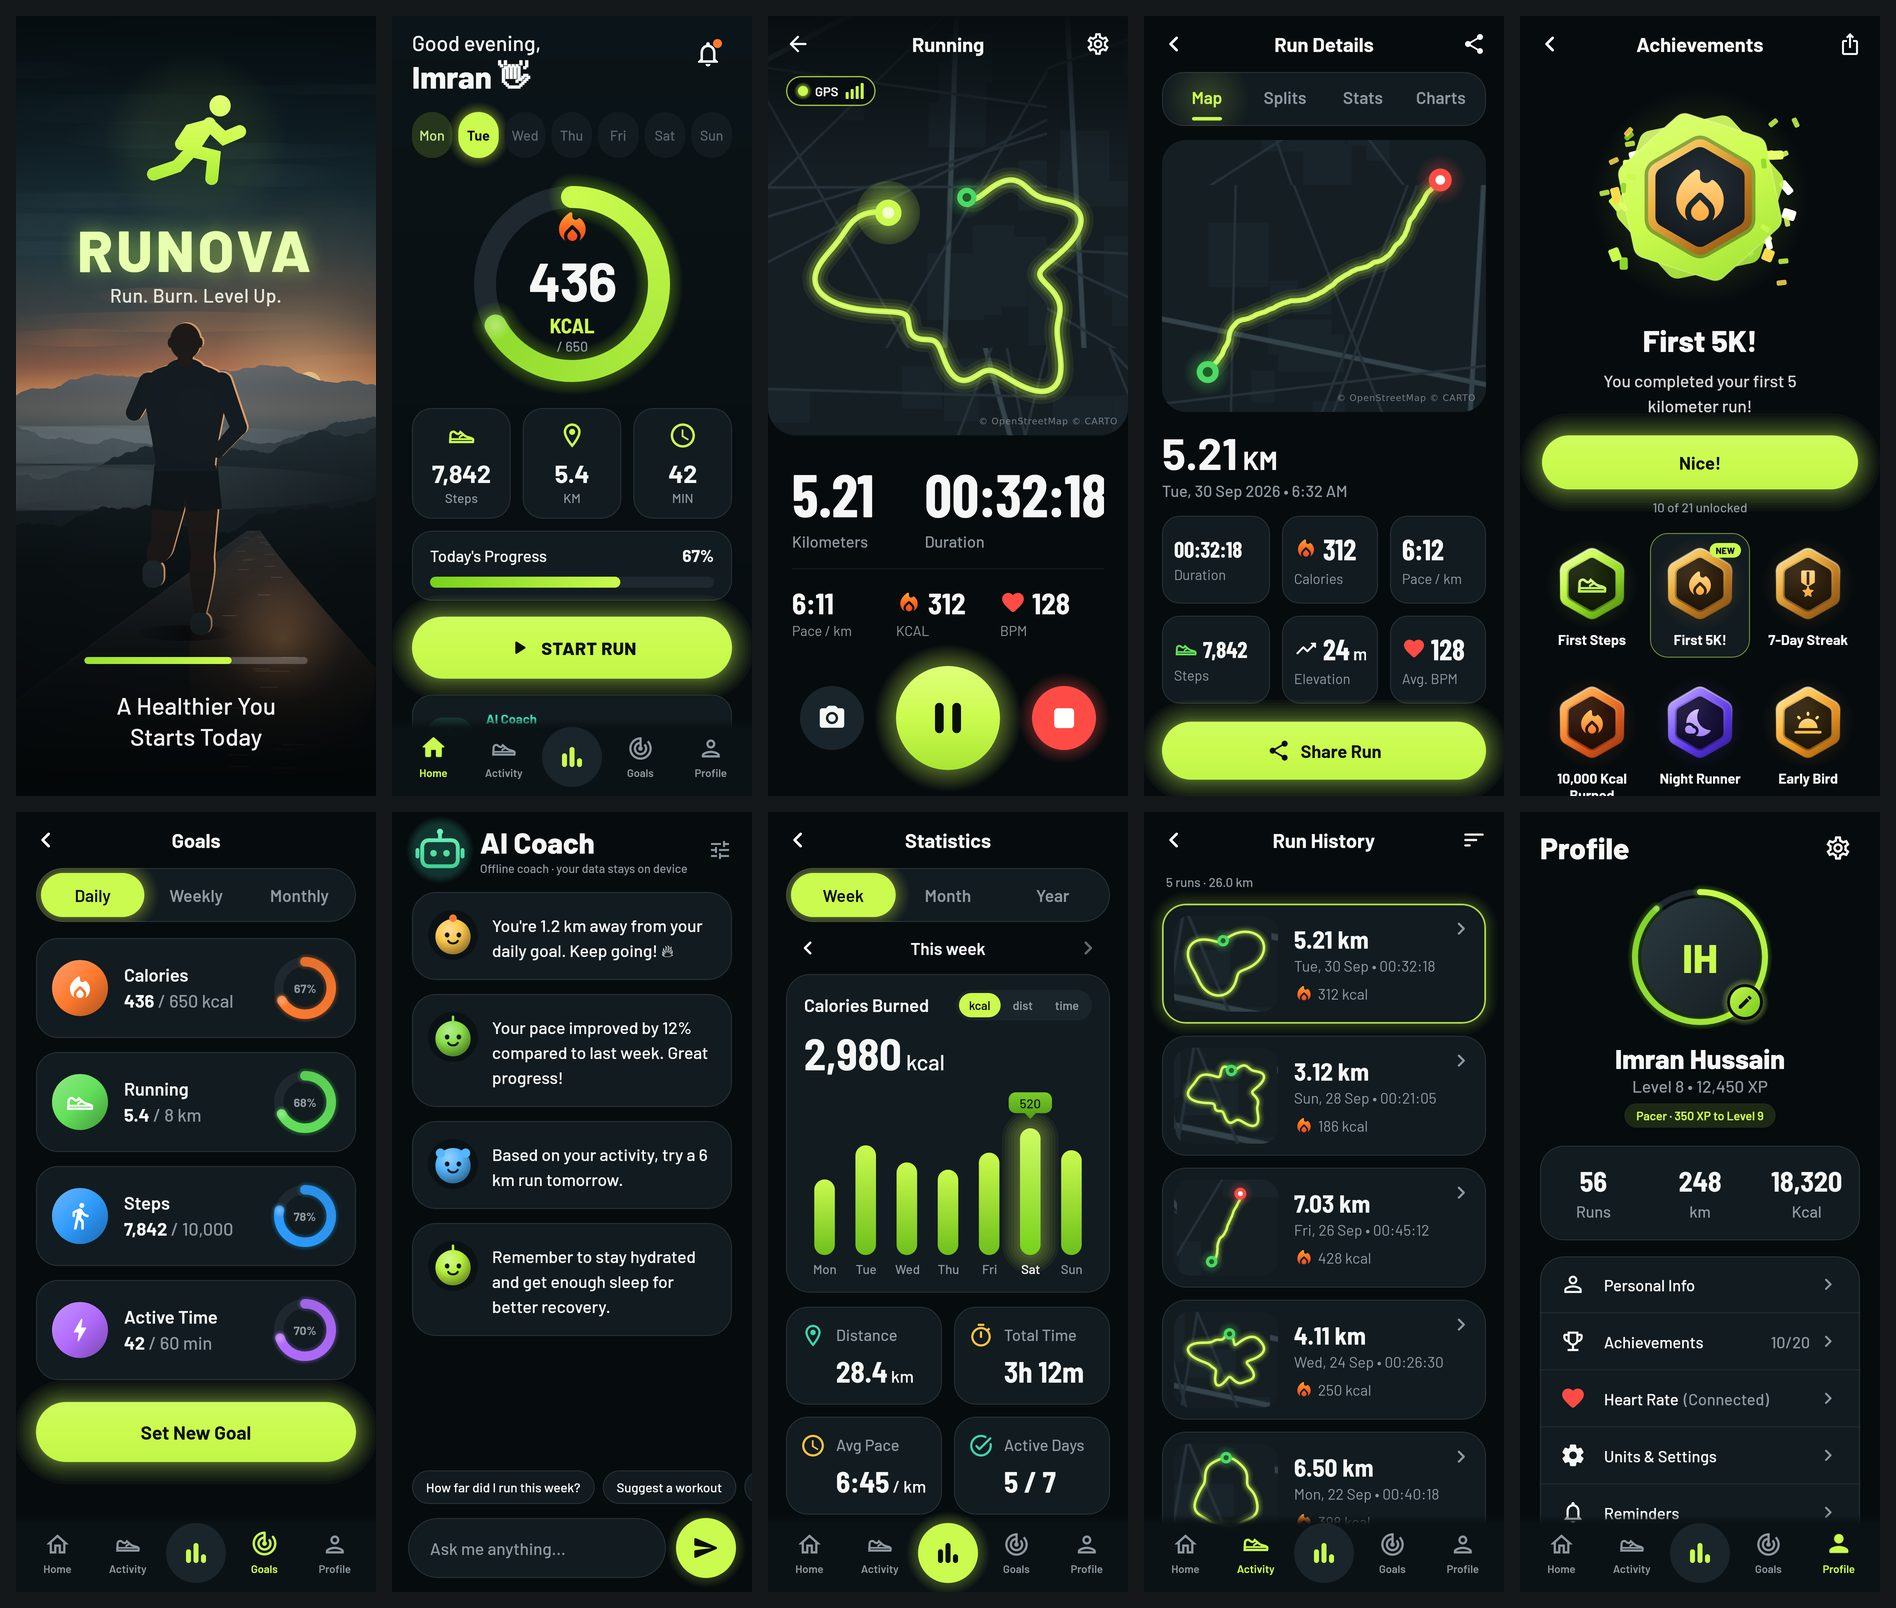
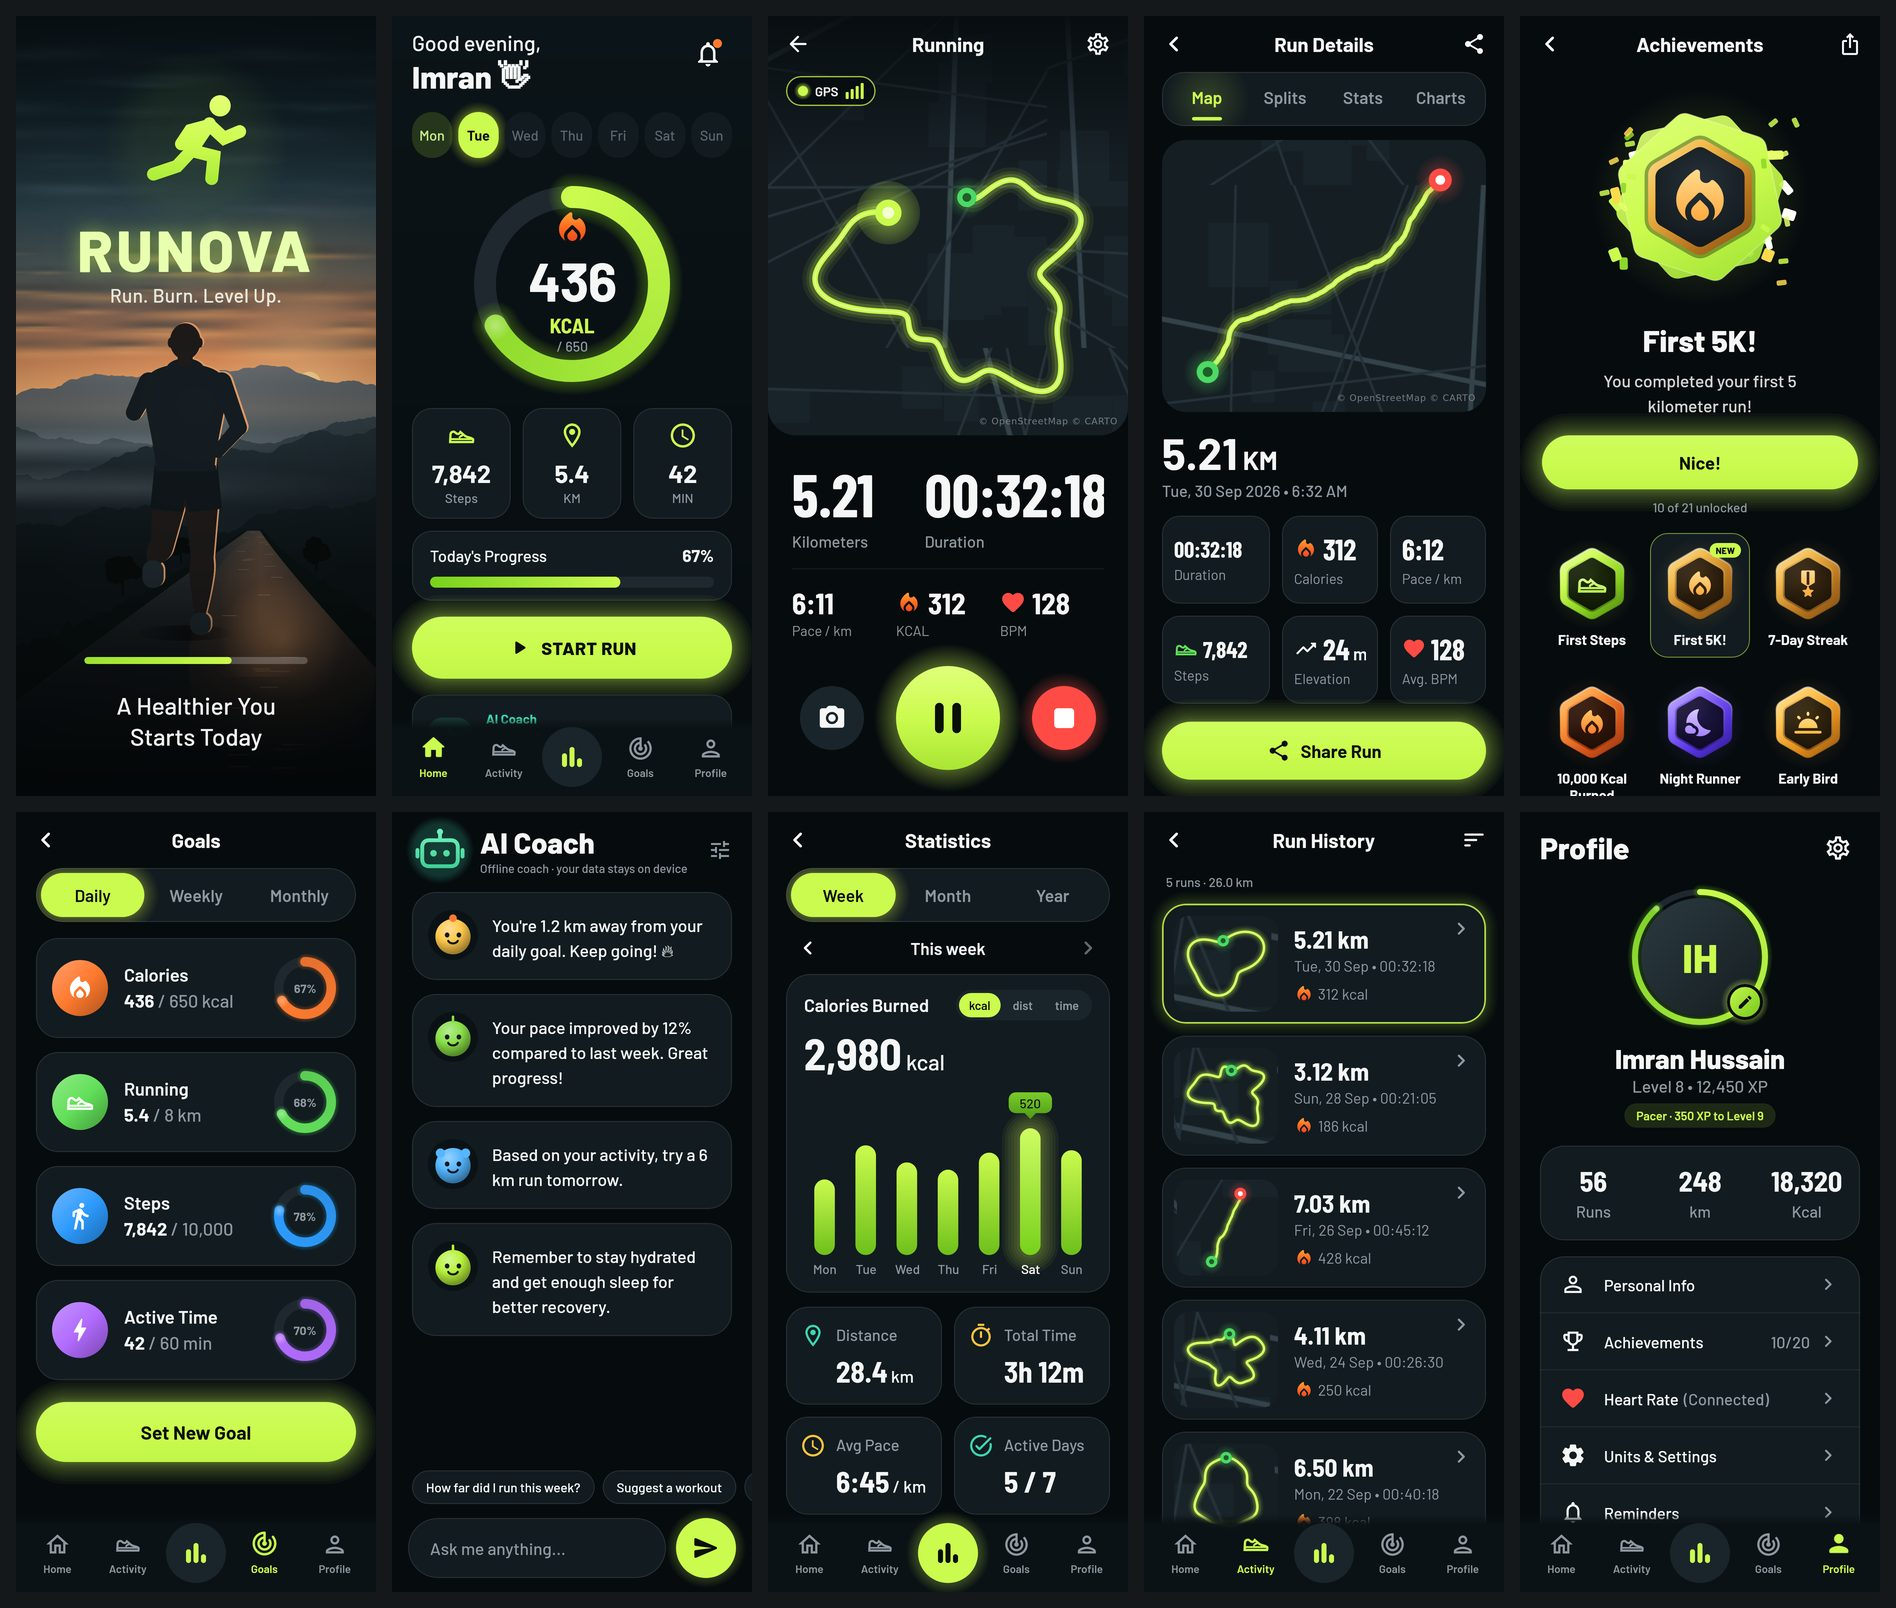
Richer splash backdrop: lit sunset clouds, roadside hedges and trees
Clouds and mist are drawn as soft elliptical fades instead of clipped
ovals, the sunset band is warmer, both road edges get continuous hedge
silhouettes with a few trees, and the wet road reflects the sun more
softly. Screenshots updated.

Claude-Session: https://claude.ai/code/session_01SDsdAkGGD293yjZT44gNBa

Changed region(s): [[0.0, 0.1555, 0.2178, 0.2488]]

diff --git a/runova/app/src/shared/kotlin/com/runova/app/ui/components/SplashScene.kt b/runova/app/src/shared/kotlin/com/runova/app/ui/components/SplashScene.kt
@@ -15,6 +15,7 @@ import androidx.compose.ui.graphics.StrokeJoin
 import androidx.compose.ui.graphics.drawscope.DrawScope
 import androidx.compose.ui.graphics.drawscope.Stroke
 import androidx.compose.ui.graphics.drawscope.clipPath
+import androidx.compose.ui.graphics.drawscope.withTransform
 import androidx.compose.ui.graphics.lerp
 import kotlin.math.PI
 import kotlin.math.abs
@@ -75,35 +76,44 @@ internal fun DrawScope.drawSplash(t: Float) {
     val h = size.height
     val horizon = h * 0.505f
 
-    // ---- sky
+    // ---- sky: slate-teal at the top, a wide peach-orange glow above the ridges
     drawRect(
         Brush.verticalGradient(
-            0.00f to Color(0xFF0E1F27),
-            0.16f to Color(0xFF173039),
-            0.30f to Color(0xFF28434C),
-            0.39f to Color(0xFF4A4F50),
-            0.45f to Color(0xFF9B6750),
-            0.485f to Color(0xFFE39A62),
-            0.505f to Color(0xFFF6B976),
+            0.00f to Color(0xFF12252E),
+            0.14f to Color(0xFF1C343E),
+            0.25f to Color(0xFF334C56),
+            0.33f to Color(0xFF55605F),
+            0.39f to Color(0xFF9A6F58),
+            0.44f to Color(0xFFD38B5B),
+            0.48f to Color(0xFFEFAA6C),
+            0.505f to Color(0xFFF7C27F),
             0.56f to Color(0xFF6E6560),
             1.00f to Color(0xFF0C1214),
             endY = h,
         ),
     )
-    // cloud banks
+    // cloud banks: soft cool streaks high up, dark clouds with glowing undersides near the sun
     val cloudRnd = Random(7)
-    repeat(14) { i ->
-        val cy = h * (0.05f + i * 0.03f + cloudRnd.nextFloat() * 0.02f)
-        val cx = w * (cloudRnd.nextFloat() * 1.2f - 0.1f) + sin(t * 0.05f + i) * w * 0.02f
-        val rw = w * (0.35f + cloudRnd.nextFloat() * 0.7f)
-        val rh = h * (0.012f + cloudRnd.nextFloat() * 0.03f)
-        val warm = i >= 10
-        val col = if (warm) Color(0xFFE3905C).copy(alpha = 0.20f) else Color(0xFF3E5761).copy(alpha = 0.18f + cloudRnd.nextFloat() * 0.14f)
-        drawOval(
-            Brush.radialGradient(listOf(col, Color.Transparent), center = Offset(cx, cy), radius = rw / 2),
-            topLeft = Offset(cx - rw / 2, cy - rh / 2),
-            size = Size(rw, rh),
-        )
+    repeat(7) { band ->
+        val cy = h * (0.05f + band * 0.034f)
+        val drift = sin(t * 0.05f + band) * w * 0.02f
+        repeat(6) {
+            val cx = w * (cloudRnd.nextFloat() * 1.3f - 0.15f) + drift
+            val rx = w * (0.12f + cloudRnd.nextFloat() * 0.22f)
+            softEllipse(Offset(cx, cy + (cloudRnd.nextFloat() - 0.5f) * h * 0.012f), rx, rx * (0.07f + cloudRnd.nextFloat() * 0.06f), Color(0xFF4F6A76), 0.16f + cloudRnd.nextFloat() * 0.12f)
+        }
+    }
+    repeat(6) { band ->
+        val cy = h * (0.30f + band * 0.024f)
+        val drift = sin(t * 0.04f + band * 2) * w * 0.015f
+        val glow = 0.22f + 0.30f * (band / 5f)
+        repeat(7) {
+            val cx = w * (cloudRnd.nextFloat() * 1.3f - 0.15f) + drift
+            val rx = w * (0.10f + cloudRnd.nextFloat() * 0.20f)
+            val ry = rx * (0.08f + cloudRnd.nextFloat() * 0.07f)
+            softEllipse(Offset(cx, cy), rx, ry, Color(0xFF394245), 0.40f)
+            softEllipse(Offset(cx + rx * 0.1f, cy + ry * 0.8f), rx * 0.8f, ry * 0.55f, Color(0xFFF6AE6B), glow)
+        }
     }
     // ---- sun + glow
     val sunX = w * 0.815f
@@ -127,8 +137,9 @@ internal fun DrawScope.drawSplash(t: Float) {
     mist(t * 1.3f, horizon + h * 0.10f, h * 0.06f, 0.14f)
     mountain(31, horizon + h * 0.19f, h * 0.10f, Brush.verticalGradient(listOf(Color(0xFF151F24), Color(0xFF0D1417)), startY = horizon + h * 0.08f, endY = horizon + h * 0.2f), -drift * 2f)
 
-    // ---- road
+    // ---- road and the trees lining it
     drawRoad(t, horizon)
+    drawRoadside(horizon)
 
     // ---- runner
     drawRunner(t, Offset(w * 0.47f, h * 0.395f), h * 0.40f)
@@ -139,15 +150,19 @@ internal fun DrawScope.drawSplash(t: Float) {
     drawRect(Brush.radialGradient(listOf(Color.Transparent, Color(0x88000000)), center = Offset(w / 2, h * 0.5f), radius = h * 0.75f))
 }
 
+/** A blurred ellipse: a radial fade squashed vertically, so it has no hard edges. */
+private fun DrawScope.softEllipse(center: Offset, rx: Float, ry: Float, color: Color, alpha: Float) {
+    if (rx <= 0f || ry <= 0f) return
+    withTransform({ scale(1f, ry / rx, pivot = center) }) {
+        drawCircle(Brush.radialGradient(listOf(color.copy(alpha = alpha), color.copy(alpha = alpha * 0.4f), Color.Transparent), center = center, radius = rx), radius = rx, center = center)
+    }
+}
+
 private fun DrawScope.mist(t: Float, y: Float, height: Float, alpha: Float) {
     val w = size.width
     for (k in 0 until 3) {
         val x = ((t * 6f * (k + 1)) % (w * 2)) - w * 0.5f + k * w * 0.4f
-        drawOval(
-            Brush.radialGradient(listOf(Color(0xFFB9C7CC).copy(alpha = alpha), Color.Transparent), center = Offset(x, y), radius = w * 0.7f),
-            topLeft = Offset(x - w * 0.7f, y - height / 2),
-            size = Size(w * 1.4f, height),
-        )
+        softEllipse(Offset(x, y), w * 0.7f, height / 2, Color(0xFFB9C7CC), alpha)
     }
 }
 
@@ -165,6 +180,17 @@ private fun DrawScope.drawRoad(t: Float, horizon: Float) {
     drawPath(road, Brush.verticalGradient(listOf(Color(0xFF2A2F31), Color(0xFF14191B), Color(0xFF0B0F11)), startY = vanish.y, endY = h))
     // wet reflection of the sunset along the road
     clipPath(road) {
+        drawRect(
+            Brush.horizontalGradient(
+                0f to Color.Transparent,
+                0.5f to Color(0xFFF3A466).copy(alpha = 0.16f),
+                1f to Color.Transparent,
+                startX = w * 0.56f,
+                endX = w * 0.80f,
+            ),
+            topLeft = Offset(0f, vanish.y),
+            size = Size(w, (h - vanish.y) * 0.55f),
+        )
         drawOval(
             Brush.radialGradient(listOf(Color(0xFFF0A265).copy(alpha = 0.55f), Color(0xFFB0643A).copy(alpha = 0.18f), Color.Transparent), center = Offset(w * 0.74f, h * 0.80f), radius = w * 0.35f),
             topLeft = Offset(w * 0.48f, vanish.y),
@@ -191,6 +217,74 @@ private fun DrawScope.drawRoad(t: Float, horizon: Float) {
     }
     // soft road edges
     drawPath(road, Color(0xFF3A4246).copy(alpha = 0.35f), style = Stroke(2f))
+}
+
+private fun bezier(p0: Offset, p1: Offset, p2: Offset, p3: Offset, t: Float): Offset {
+    val u = 1 - t
+    val a = u * u * u
+    val b = 3 * u * u * t
+    val c = 3 * u * t * t
+    val d = t * t * t
+    return Offset(a * p0.x + b * p1.x + c * p2.x + d * p3.x, a * p0.y + b * p1.y + c * p2.y + d * p3.y)
+}
+
+/** Hedges and trees in silhouette along both edges of the road, taller towards the viewer. */
+private fun DrawScope.drawRoadside(horizon: Float) {
+    val w = size.width
+    val h = size.height
+    val vanishY = horizon + h * 0.155f
+    val dark = Color(0xFF070C0B)
+    val rnd = Random(42)
+
+    fun hedge(edge: (Float) -> Offset, maxP: Float, outward: Float, corner: Offset, seed: Int, heightScale: Float) {
+        val noise = ridge(seed, 129, 0.62f)
+        val n = 96
+        val path = Path()
+        val first = edge(0f)
+        path.moveTo(first.x, first.y)
+        for (i in 0..n) {
+            val p = i / n.toFloat() * maxP
+            val e = edge(p)
+            val grow = (p / maxP)
+            val height = h * (0.004f + 0.11f * grow * grow) * heightScale
+            val bump = 0.55f + 0.45f * (noise[(i * 128) / n] * 0.5f + 0.5f) + (rnd.nextFloat() - 0.5f) * 0.25f
+            path.lineTo(e.x + outward * w * (0.004f + 0.05f * grow), e.y - height * bump)
+        }
+        path.lineTo(corner.x, corner.y)
+        for (i in n downTo 0) {
+            val e = edge(i / n.toFloat() * maxP)
+            path.lineTo(e.x, e.y)
+        }
+        path.close()
+        drawPath(path, Brush.verticalGradient(listOf(Color(0xFF0B1413), dark), startY = vanishY - h * 0.02f, endY = h))
+    }
+
+    val l0 = Offset(w * 0.642f, vanishY)
+    val l1 = Offset(w * 0.40f, h * 0.74f)
+    val l2 = Offset(w * 0.05f, h * 0.86f)
+    val l3 = Offset(-w * 0.35f, h)
+    hedge({ p -> bezier(l0, l1, l2, l3, p) }, 0.85f, -1f, Offset(-w * 0.5f, h * 1.05f), 51, 1f)
+
+    val r0 = Offset(w * 0.678f, vanishY)
+    val r1 = Offset(w * 0.78f, h * 0.73f)
+    val r2 = Offset(w * 1.02f, h * 0.84f)
+    val r3 = Offset(w * 1.3f, h)
+    hedge({ p -> bezier(r0, r1, r2, r3, p) }, 0.62f, 1f, Offset(w * 1.5f, h * 1.05f), 77, 0.8f)
+
+    // trees: bumpy canopies made of many small overlapping crowns
+    fun tree(base: Offset, crownR: Float, trunk: Float) {
+        drawRect(dark, topLeft = Offset(base.x - crownR * 0.06f, base.y - trunk), size = Size(crownR * 0.12f, trunk))
+        val c = Offset(base.x, base.y - trunk - crownR * 0.55f)
+        repeat(26) {
+            val a = rnd.nextFloat() * 2 * PI.toFloat()
+            val d = kotlin.math.sqrt(rnd.nextFloat())
+            val o = Offset(c.x + kotlin.math.cos(a) * crownR * 0.75f * d, c.y + kotlin.math.sin(a) * crownR * 0.6f * d)
+            drawCircle(dark, crownR * (0.18f + rnd.nextFloat() * 0.16f), o)
+        }
+    }
+    tree(bezier(l0, l1, l2, l3, 0.16f).let { Offset(it.x - w * 0.06f, it.y) }, w * 0.035f, h * 0.012f)
+    tree(bezier(l0, l1, l2, l3, 0.30f).let { Offset(it.x - w * 0.10f, it.y) }, w * 0.055f, h * 0.02f)
+    tree(bezier(r0, r1, r2, r3, 0.22f).let { Offset(it.x + w * 0.07f, it.y) }, w * 0.045f, h * 0.016f)
 }
 
 /** Joint positions of the runner in figure units (head top = 0, soles = 100). */
